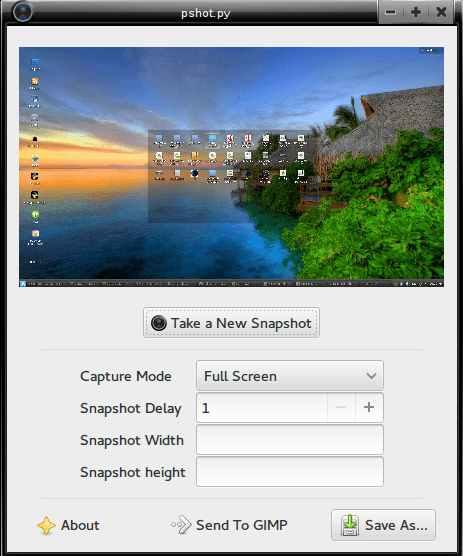
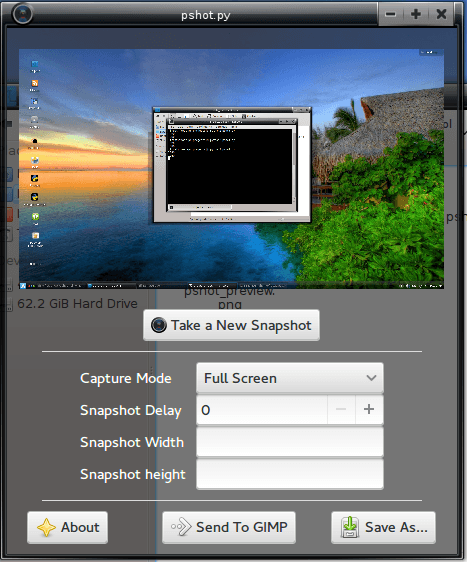
making transparent background

diff --git a/pshot.py b/pshot.py
@@ -1,6 +1,7 @@
 #/usr/bin/python2
 import os
 import time
+import cairo
 import thread
 from gi.repository import Gtk, GdkPixbuf
 
@@ -14,6 +15,12 @@ take_screenshot_at_launch()
 
 
 class sceenshot_gui:
+
+    def draw_transparency(self, widget, cr):
+        cr.set_source_rgba(.1, .1, .1, 0.6)
+        cr.set_operator(cairo.OPERATOR_SOURCE)
+        cr.paint()
+        cr.set_operator(cairo.OPERATOR_OVER)
 
     def on_take_new_snapshot_clicked(self, widget):
         time.sleep(float(self.capture_delay_button.get_text()))
@@ -94,6 +101,12 @@ class sceenshot_gui:
         self.snapshot_width = self.intf.get_object('snapshot_width')
         self.capturemode = self.intf.get_object('capturemodebox')
         self.window = self.intf.get_object("window1")
+        self.window.screen = self.window.get_screen()
+        self.window.visual = self.window.screen.get_rgba_visual()
+        if self.window.visual != None and self.window.screen.is_composited():
+            self.window.set_visual(self.window.visual)
+        self.window.set_app_paintable(True)
+        self.window.connect("draw", self.draw_transparency)
         self.window.connect("delete-event", Gtk.main_quit)
         self.window.show_all()
 
